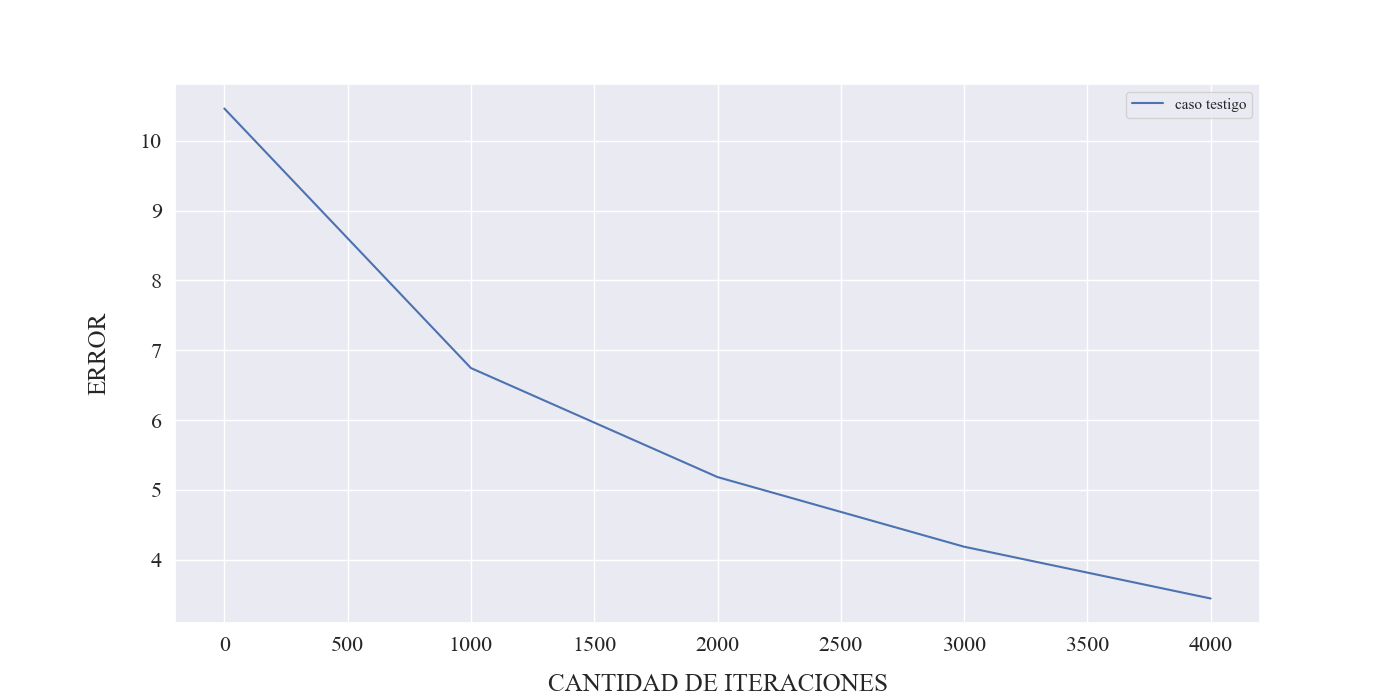
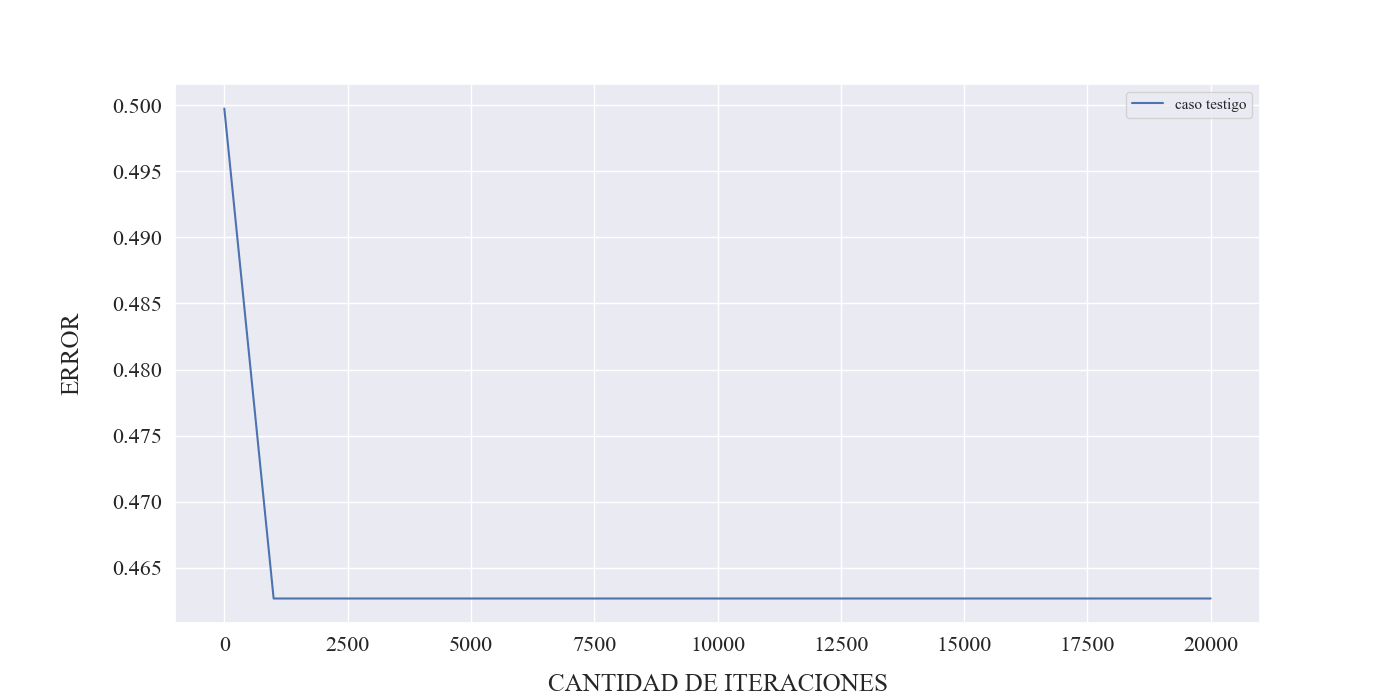
anda piola

diff --git a/experimentos/mismo_absoluto.py b/experimentos/mismo_absoluto.py
@@ -1,4 +1,5 @@
 from distutils.log import error
+from json.encoder import INFINITY
 from os import lstat
 from matplotlib.pyplot import step
 import base.IO as IO
@@ -18,6 +19,10 @@ import itertools
 EXPERIMENTO = "mismo_absoluto"
 DIR_IN, DIR_OUT, DIR = IO.createInOut(EXPERIMENTO, delete=True)
 RES = f"{DIR}{EXPERIMENTO}.csv"
+MATRIZ_IN     = f"{DIR_IN}matriz.txt"
+X_IN          = f"{DIR_IN}x.txt"
+AVECS_EXPECTED = f"{DIR_IN}avecs_exp.txt"
+AVALS_EXPECTED = f"{DIR_IN}avals_exp.txt"
 
 # OUT
 SUMMARY   = f"{DIR}{EXPERIMENTO}_summary.csv"
@@ -28,35 +33,30 @@ COLS       = 'iter,error_autovalor,error_n2_autovectores'
 FMT_COLS   = "{0},{1},{2}\n"
 
 # VARIABLES
-N = 20
-NITER = 5000
+N = 5
+NITER = 20000
 STEP = 1000 # tiene que se par para que tenga sentido
-STEP2 = 1 # tiene que se par para que tenga sentido
 TOL = 1e-20
 
 def createAutovalores(list, size):
+    list = np.array(list)
     mn = min(list)
     for i in range(size-len(list)):
-        list.append(np.random.randint(abs(mn)))
+        list = np.append(list, np.random.randint(abs(mn)))
     return list
 
 def make_av_diferentes():
-    D = createAutovalores([N], N)
+    D = createAutovalores([N, -N, N, -N], N)    
     D = np.diag(D)
-    D = D.astype(float)
-
+    
     u = np.random.rand(N, 1)
-    u = u / n2(u)
+    u = u / utils.norma(u, 2)
     H = np.eye(N) - 2 * (u @ u.T)
     S = H @ D @ H.T
 
     a, V = utils.eig(S)
-    V = V.T
-    if(a[0] < 0): 
-        V[[0, 1]] = V[[1, 0]]
-        a[0] = a[0] * -1
-        a[1] = a[0] * -1
-    V = V.T
+    a = a.astype(float)
+    V = V.astype(float)
     return S, V, a
 
 
@@ -66,75 +66,75 @@ def make_tests():
     S, V, a = make_av_diferentes()
     x = np.random.randint(-100, 100, size=(N, N))
     x = x.astype(float)
-    x[0] = x[0] / n2(x[0])
-    
-    np.savetxt(f"{DIR_IN}t_matriz.txt", S)
-    np.savetxt(f"{DIR_IN}t_autovalores_dom.txt", a)
-    np.savetxt(f"{DIR_IN}t_x.txt", x)
-    np.savetxt(f"{DIR_IN}t_autovectores_dom.txt", V)
+    x[0] = x[0] / np.linalg.norm(x[0], 2)
+    np.savetxt(MATRIZ_IN, S)
+    np.savetxt(AVALS_EXPECTED, a)
+    np.savetxt(X_IN, x)
+    np.savetxt(AVECS_EXPECTED, V)
+    return S, x[0]
 
-
-    # y0 = x[0]
-    # Q = V
-    # v1 = Q.T[0]
-    # v2 = Q.T[1]
-    # q = np.dot(v1, y0) * v1 + np.dot(v2, y0) * v2
-    # q = q / n2(q)
-
-    # print("popo1:", f(S, q))
-    # print("popo2:", f(S, v1))
-    # print("popo3:", f(S, v2))
 # RUN 
 def run_tests():
+    S, x = make_tests()
+
     print(f'corriendo iteracion: {0}') 
-    IO.run(f"{DIR_IN}t_matriz.txt", 0, TOL, x=f"{DIR_IN}t_x.txt", o=DIR_OUT, save_as=f"t_{0}")
-    for i in range(STEP, NITER, STEP):
+    a, x = utils.metodo_potencia(S, 0, TOL, x)
+    np.savetxt(pathAvec(0), x)
+    np.savetxt(pathAval(0), [a])
+
+    for i in range(STEP, NITER+1, STEP):
         print(f'corriendo iteracion: {i}') 
-        IO.run(f"{DIR_IN}t_matriz.txt", 1, TOL, x=f"{DIR_OUT}t_{int(i/STEP)-1}.autovectores.out", o=DIR_OUT, save_as=f"t_{int(i/STEP)}")
+        a, x = utils.metodo_potencia(S, STEP, TOL, x)
+        np.savetxt(pathAvec(int(i/STEP)), x)
+        np.savetxt(pathAval(int(i/STEP)), [a])
 
 
 def n2(v):
     return np.linalg.norm(v, 2)
-def f(A, v):
-    return np.dot(v.T, A @ v) / np.dot(v,v)
+
+def pathAval(i):
+    return f"{DIR_OUT}t_{i}_autovalor.out"
+def pathAvec(i):
+    return f"{DIR_OUT}t_{i}_autovector.out"
 
 def eval_tests():
+    # importo S
+    S = IO.readMatriz(MATRIZ_IN)
+
+    # importo x
+    y0 = IO.readAutovectores(X_IN)
+    y0 = y0[0]
+
+    # importo los autovalores esperados
+    e = IO.readAutovalores(AVALS_EXPECTED)
+    e = e[0]
+
+    # importo los autovectores esperados
+    Q = IO.readAutovectores(AVECS_EXPECTED)
+    q1 = Q.T[0]
+    q2 = Q.T[1]
+    vf = IO.readAutovectores(pathAvec( int(NITER/STEP) ))
     
-    e = IO.readAutovalores(f"{DIR_IN}t_autovalores_dom.txt")
-    e_d = e[0] 
-
-    y0 = IO.readAutovalores(f"{DIR_IN}t_x.txt")[0]
-    Q = IO.readAutovectores(f"{DIR_IN}t_autovectores_dom.txt")
-    v1 = Q.T[0]
-    v2 = Q.T[1]
-    q = np.dot(v1, y0) * v1 + np.dot(v2, y0) * v2
-    q = q / n2(q)
-
-    S = IO.readMatriz(f"{DIR_IN}t_matriz.txt")
-
+    u = np.dot(y0, q1) * q1 + np.dot(y0, q2) * q2
+    u = u / n2(u)
     with open(RES, 'a', encoding="utf-8") as file:
-        for i in range(0, int(NITER/STEP), STEP2):
+        for i in range(int(NITER/STEP)+1):
             print(f'evaluando resultados: {i}') 
 
-            a = IO.readAutovalores(f"{DIR_OUT}t_{i}.autovalores.out")
-            a_d = a[0]
-            
-            error = abs(a_d - e_d)
+            a = IO.readAutovalores(pathAval(i))
+            error = abs(a - e)
 
-            V = IO.readAutovectores(f"{DIR_OUT}t_{i}.autovectores.out")
-            #V2 = IO.readAutovectores(f"{DIR_OUT}t_{i+1}.autovectores.out")
-
-            v_d = V[0]
-            v_d = v_d / n2(v_d)
-            
-            norma2 = n2(v_d - v1)
+            v = IO.readAutovectores(pathAvec(i))
+            norma2 = utils.norma(v - u, 2)
+            # if invertido: norma2 = 2 - norma2 
 
             file.write(FMT_COLS.format(i*STEP, error, norma2))
+
+    print("norma2 final:", utils.norma(vf - u, 2))
 
 
 if __name__ == "__main__":
 
-    make_tests()
     run_tests()
     IO.createCSV(RES, COLS)
     eval_tests()
@@ -144,9 +144,9 @@ if __name__ == "__main__":
     
     utils.graficar(
         x=df.iter, 
-        y=df.error_autovalor,
-        # y=df.error_n2_autovectores, 
-        hue=["caso testigo"]*(int(NITER/(STEP2 * STEP))),
+        # y=df.error_autovalor,
+        y=df.error_n2_autovectores, 
+        hue=["caso testigo"]*(int(NITER/STEP) + 1), 
         xaxis="CANTIDAD DE ITERACIONES", 
         yaxis="ERROR", 
         filename=GRAFICO)

diff --git a/experimentos/todos_diferentes.py b/experimentos/todos_diferentes.py
@@ -1,4 +1,5 @@
 from distutils.log import error
+from json.encoder import INFINITY
 from os import lstat
 from matplotlib.pyplot import step
 import base.IO as IO
@@ -18,6 +19,10 @@ import itertools
 EXPERIMENTO = "todos_diferentes"
 DIR_IN, DIR_OUT, DIR = IO.createInOut(EXPERIMENTO, delete=True)
 RES = f"{DIR}{EXPERIMENTO}.csv"
+MATRIZ_IN     = f"{DIR_IN}matriz.txt"
+X_IN          = f"{DIR_IN}x.txt"
+AVECS_EXPECTED = f"{DIR_IN}avecs_exp.txt"
+AVALS_EXPECTED = f"{DIR_IN}avals_exp.txt"
 
 # OUT
 SUMMARY   = f"{DIR}{EXPERIMENTO}_summary.csv"
@@ -29,27 +34,29 @@ FMT_COLS   = "{0},{1},{2}\n"
 
 # VARIABLES
 N = 20
-NITER = 1000
-STEP = 100 # tiene que se par para que tenga sentido
+NITER = 200
+STEP = 10 # tiene que se par para que tenga sentido
 TOL = 1e-20
 
 def createAutovalores(list, size):
+    list = np.array(list)
     mn = min(list)
     for i in range(size-len(list)):
-        list.append(np.random.randint(abs(mn)))
+        list = np.append(list, np.random.randint(abs(mn)))
     return list
 
 def make_av_diferentes():
-    D = createAutovalores([N], N)
-    print(D)
+    D = createAutovalores([N], N)    
     D = np.diag(D)
-
+    
     u = np.random.rand(N, 1)
     u = u / utils.norma(u, 2)
     H = np.eye(N) - 2 * (u @ u.T)
     S = H @ D @ H.T
 
     a, V = utils.eig(S)
+    a = a.astype(float)
+    V = V.astype(float)
     return S, V, a
 
 
@@ -60,49 +67,64 @@ def make_tests():
     x = np.random.randint(-100, 100, size=(N, N))
     x = x.astype(float)
     x[0] = x[0] / np.linalg.norm(x[0], 2)
-    np.savetxt(f"{DIR_IN}t_matriz.txt", S)
-    np.savetxt(f"{DIR_IN}t_autovalores_dom.txt", a)
-    np.savetxt(f"{DIR_IN}t0_x.txt", x)
-    np.savetxt(f"{DIR_IN}t_autovectores_dom.txt", V)
-
+    np.savetxt(MATRIZ_IN, S)
+    np.savetxt(AVALS_EXPECTED, a)
+    np.savetxt(X_IN, x)
+    np.savetxt(AVECS_EXPECTED, V)
+    return S, x[0]
 
 # RUN 
 def run_tests():
+    S, x = make_tests()
+
     print(f'corriendo iteracion: {0}') 
-    IO.run(f"{DIR_IN}t_matriz.txt", 0, TOL, x=f"{DIR_IN}t0_x.txt", o=DIR_OUT, save_as=f"t_{0}")
-    for i in range(STEP, NITER, STEP):
+    a, x = utils.metodo_potencia(S, 0, TOL, x)
+    np.savetxt(pathAvec(0), x)
+    np.savetxt(pathAval(0), [a])
+
+    for i in range(STEP, NITER+1, STEP):
         print(f'corriendo iteracion: {i}') 
-        IO.run(f"{DIR_IN}t_matriz.txt", 1, TOL, x=f"{DIR_OUT}t_{int(i/STEP)-1}.autovectores.out", o=DIR_OUT, save_as=f"t_{int(i/STEP)}")
+        a, x = utils.metodo_potencia(S, STEP, TOL, x)
+        np.savetxt(pathAvec(int(i/STEP)), x)
+        np.savetxt(pathAval(int(i/STEP)), [a])
+
 
 def n2(v):
     return np.linalg.norm(v, 2)
 
+def pathAval(i):
+    return f"{DIR_OUT}t_{i}_autovalor.out"
+def pathAvec(i):
+    return f"{DIR_OUT}t_{i}_autovector.out"
+
 def eval_tests():
     
     with open(RES, 'a', encoding="utf-8") as file:
-        for i in range(int(NITER/STEP)):
+        e = IO.readAutovalores(AVALS_EXPECTED)
+        e = e[0]
+        Q = IO.readAutovectores(AVECS_EXPECTED)
+        q_d = Q.T[0]
+        vf = IO.readAutovectores(pathAvec( int(NITER/STEP) ))
+
+        invertido = False
+        if(np.allclose(-vf, q_d, 1e-4)): 
+            invertido = True
+
+        for i in range(int(NITER/STEP)+1):
             print(f'evaluando resultados: {i}') 
 
-            a = IO.readAutovalores(f"{DIR_OUT}t_{i}.autovalores.out")
-            a_d = a[0]
-            e = IO.readAutovalores(f"{DIR_IN}t_autovalores_dom.txt")
-            e_d = e[0]
-            error = abs(a_d - e_d)
+            a = IO.readAutovalores(pathAval(i))
+            error = abs(a - e)
 
-            V = IO.readAutovectores(f"{DIR_OUT}t_{i}.autovectores.out")
-            v_d = V[0]
-            Q = IO.readAutovectores(f"{DIR_IN}t_autovectores_dom.txt")
-            q_d = Q.T[0]
-            # if(n2(q_d) > 0 and n2(v_d) < 0): v_d = -1 * v_d
-
-            norma2 = np.linalg.norm(v_d - q_d, 2)
+            v = IO.readAutovectores(pathAvec(i))
+            norma2 = np.linalg.norm(v - q_d, 2)
+            if invertido: norma2 = 2 - norma2 
 
             file.write(FMT_COLS.format(i*STEP, error, norma2))
 
 
 if __name__ == "__main__":
 
-    make_tests()
     run_tests()
     IO.createCSV(RES, COLS)
     eval_tests()
@@ -112,9 +134,9 @@ if __name__ == "__main__":
     
     utils.graficar(
         x=df.iter, 
-        y=df.error_autovalor,
-        # y=df.error_n2_autovectores, 
-        hue=["caso testigo"]*(int(NITER/STEP)), 
+        # y=df.error_autovalor,
+        y=df.error_n2_autovectores, 
+        hue=["caso testigo"]*(int(NITER/STEP) + 1), 
         xaxis="CANTIDAD DE ITERACIONES", 
         yaxis="ERROR", 
         filename=GRAFICO)
